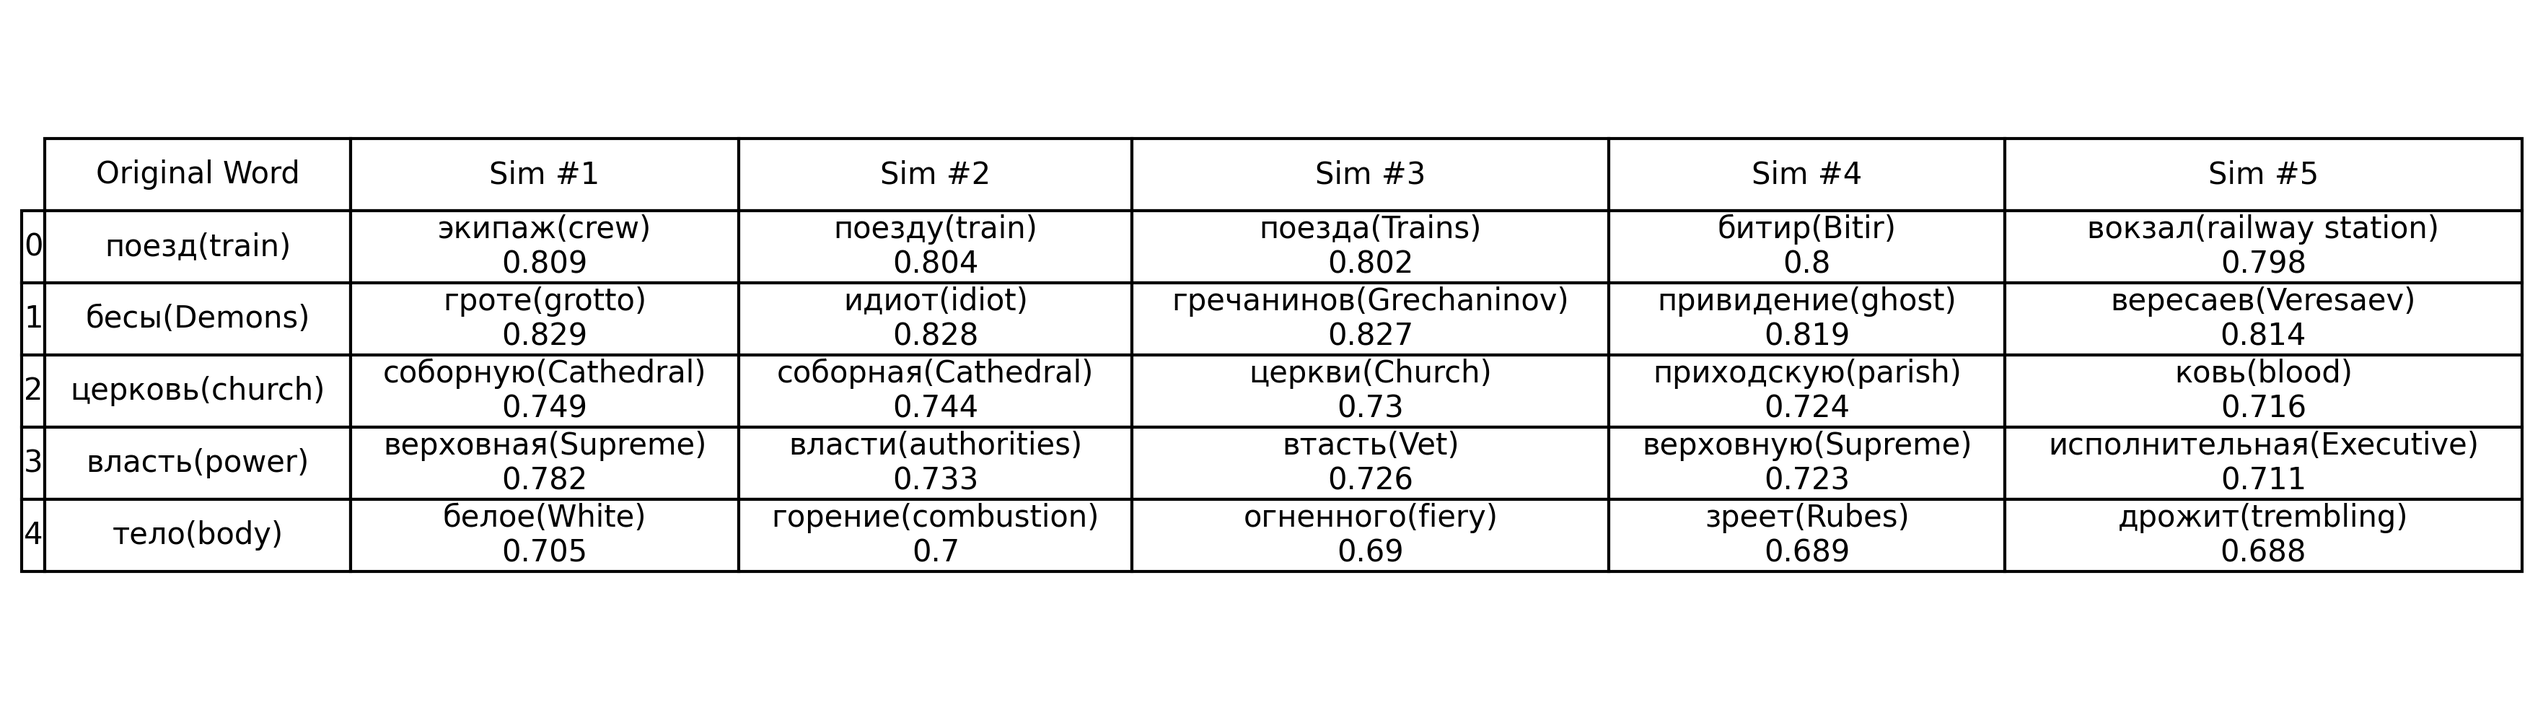
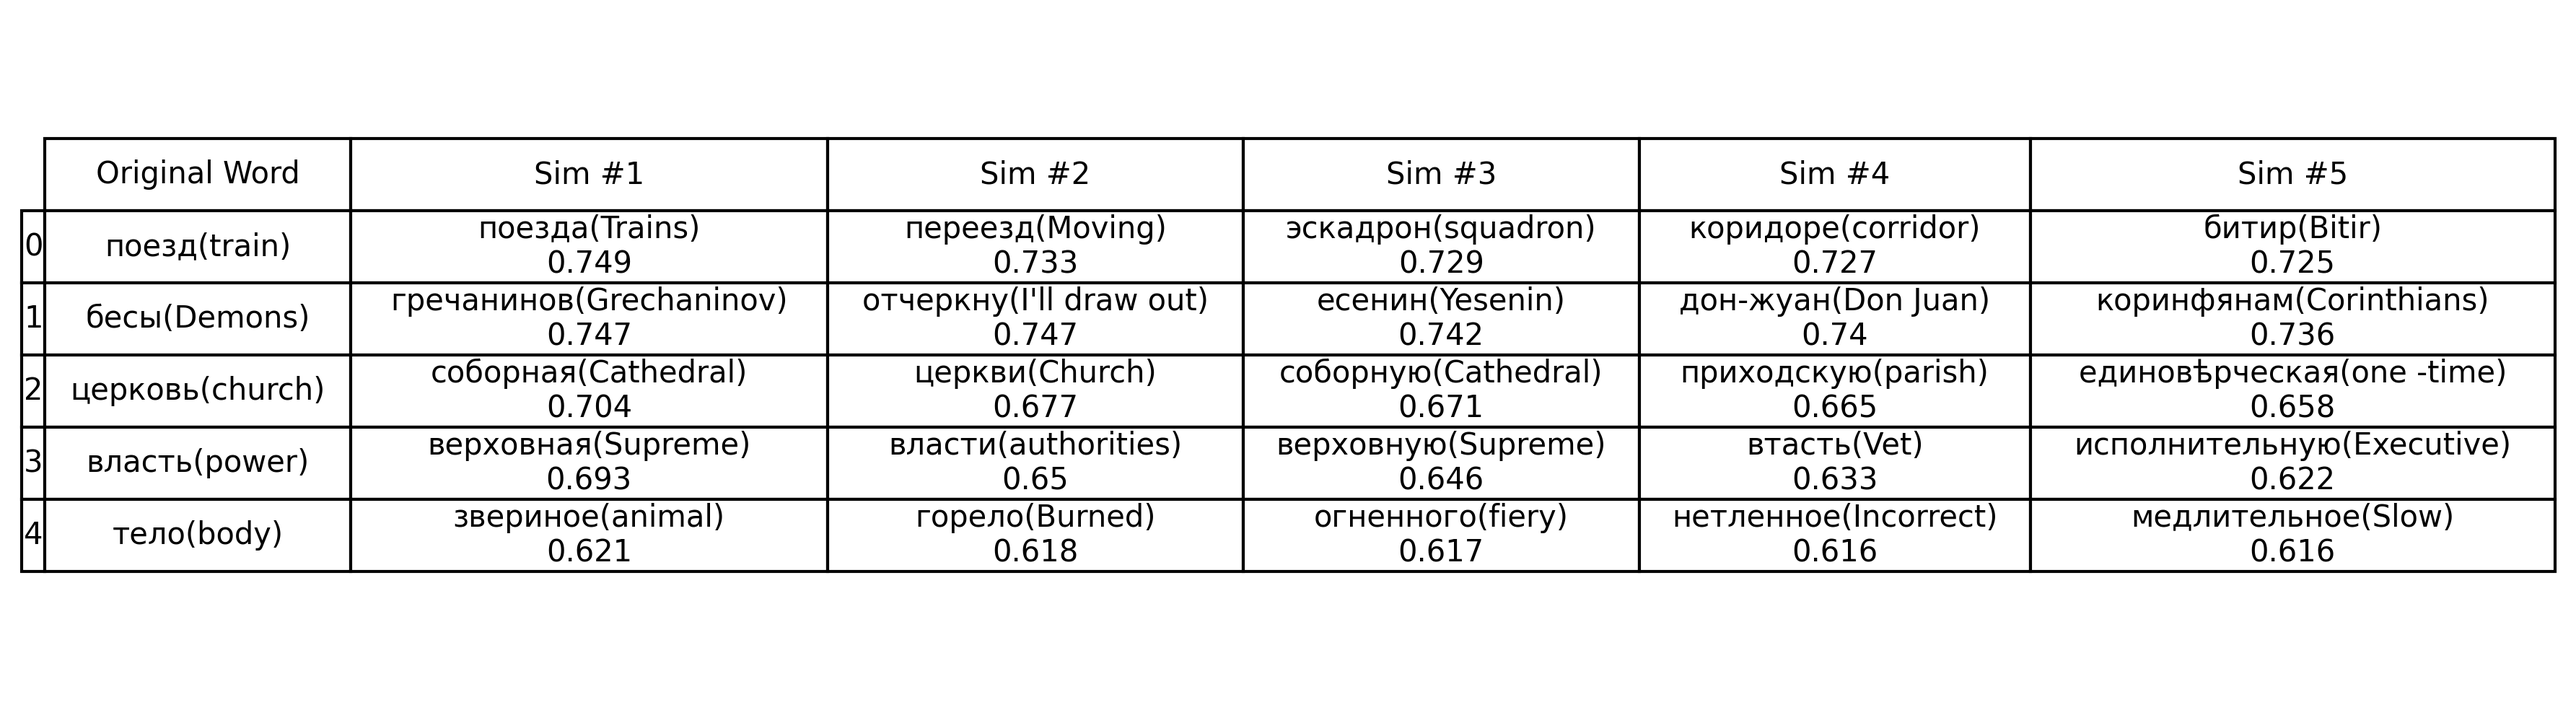
added embedding training

diff --git a/scripts/08_14_modified_create_embeddings_pipeline/check_vocab_counter.py b/scripts/08_14_modified_create_embeddings_pipeline/check_vocab_counter.py
@@ -1,0 +1,148 @@
+import gzip, json, argparse, re, csv
+from typing import Dict, List, Tuple, Any
+from collections import Counter
+from tqdm import tqdm
+import pandas as pd
+from jsonl_file_utils import write_jsonl_file
+
+
+def dump_counter_data(file_name: str, counter: Counter) -> None:
+    with open(file_name, "w") as f:
+        fieldnames = ["vocab", "frequency"]
+        writer = csv.DictWriter(f, fieldnames=fieldnames)
+
+        writer.writeheader()
+        for vocab_instance in tqdm(counter.items()):
+            writer.writerow(
+                {"vocab": vocab_instance[0], "frequency": vocab_instance[1]}
+            )
+
+
+if __name__ == "__main__":
+
+    parser = argparse.ArgumentParser(
+        formatter_class=argparse.ArgumentDefaultsHelpFormatter
+    )
+    parser.add_argument("--input", type=str, default=None)
+    parser.add_argument("--input_vocab", type=str, default=None)
+    parser.add_argument("--output", type=str, default=None)
+    parser.add_argument("--vocabfreq_cap", type=int, default=10)
+    parser.add_argument("--num_docs", type=int, default=0)
+    parser.add_argument("--random_seed", type=int, default=42)
+    parser.add_argument("--skip_vocabcounter", action="store_true")
+
+    args = parser.parse_args()
+
+    assert args.input and args.input_vocab and args.output
+    assert args.vocabfreq_cap > 0 and args.num_docs > 0
+    assert args.skip_vocabcounter
+
+    # \u0000-\u0020 --> all kinds of random space / tap/ etc.
+    # \u0021 --> exclamation mark
+    # \u0022 --> double quotation mark
+    # \u0027 --> single quotation mark
+    # \u0028-\u0029 --> small brackets
+    # \u005B, \u005D --> mid brackets
+    # \u007B-\u007D --> big brackets
+    # \u002C --> comma
+    # \u002E --> period
+    # \u003A -->
+    # \u003B --> semicolon
+    # \u003F --> question mark
+
+    non_punctuation_units = re.compile(
+        r"[^\u0000-\u0020\u0021\u0022\u0027-\u0029\u005B\u005D\u007B\u007D\u002C\u002E\u003A\u003B\u003F]+"
+    )
+
+    if args.skip_vocabcounter is False:
+
+        vocab_counter: Counter = Counter()
+
+        with gzip.open(args.input, "rt") as ifd:
+            idx_counter: int = 0
+            terminating_flag: bool = False
+
+            for entry in tqdm(ifd):
+                j = json.loads(entry)
+                local_vocabs: List[str] = non_punctuation_units.findall(j["content"])
+                local_vocabs = [local_vocab.lower() for local_vocab in local_vocabs]
+                vocab_counter += Counter(local_vocabs)
+
+                idx_counter += 1
+
+                if idx_counter >= args.num_docs:
+                    terminating_flag = True
+                    print(f" --- iterated to idx {idx_counter} --- ")
+                    break
+
+                if idx_counter % 5000 == 0:
+                    less_used_vocabs = [
+                        vocab_entry
+                        for vocab_entry in vocab_counter.items()
+                        if vocab_entry[1] <= args.vocabfreq_cap
+                    ]
+
+                    print(
+                        f"at idx {idx_counter}, there are a total of {len(vocab_counter)} vocabs, among those {len(less_used_vocabs)} has less than {args.vocabfreq_cap} frequency"
+                    )
+
+                    dump_counter_data(f"output_at_idx_{idx_counter}.csv", vocab_counter)
+
+            if terminating_flag is False:
+                print(f" --- iterated to idx {idx_counter} --- ")
+
+        # do some statistics of vocab_counter
+        less_used_vocabs = [
+            vocab_entry
+            for vocab_entry in vocab_counter.items()
+            if vocab_entry[1] <= args.vocabfreq_cap
+        ]
+
+        print(
+            f"there are a total of {len(vocab_counter)} vocabs, among those {len(less_used_vocabs)} has less than {args.vocabfreq_cap} frequency"
+        )
+        # print(f"the less frequent terms are {less_used_vocabs}")
+
+        print(f" --- writing to output file {args.output} --- ")
+        dump_counter_data(args.output, vocab_counter)
+
+    vocab_freq_df = pd.read_csv(args.input_vocab)
+    # print(vocab_freq_df.head())
+    less_than_cap_vocabs = vocab_freq_df[
+        vocab_freq_df["frequency"] <= args.vocabfreq_cap
+    ]["vocab"].unique()
+    more_than_cap_vocabs = set(
+        vocab_freq_df[vocab_freq_df["frequency"] > args.vocabfreq_cap]["vocab"].unique()
+    )
+    # print(
+    #     f"there are initially {len(vocab_freq_df)} instances of vocab, of which {len(less_than_cap_vocabs)} are with less than {args.vocabfreq_cap} times used"
+    # )
+    # print(f"some of the vocabs include : {less_than_cap_vocabs[:15]}")
+
+    with gzip.open(args.input, "rt") as ifd:
+
+        idx_counter: int = 0
+        terminating_flag: bool = False
+
+        for entry in tqdm(ifd):
+            j = json.loads(entry)
+            local_vocabs: List[str] = non_punctuation_units.findall(j["content"])
+            local_vocabs_filtered = [
+                local_vocab.lower()
+                for local_vocab in local_vocabs
+                if local_vocab.lower() in more_than_cap_vocabs
+            ]
+
+            j["content"] = " ".join(local_vocabs_filtered)
+
+            write_jsonl_file(args.output, j)
+
+            idx_counter += 1
+
+            if idx_counter >= args.num_docs:
+                terminating_flag = True
+                print(f" --- iterated to idx {idx_counter} --- ")
+                break
+
+        if terminating_flag is False:
+            print(f" --- iterated to idx {idx_counter} --- ")

diff --git a/scripts/08_14_modified_create_embeddings_pipeline/train_embeddings_and_generate_stats.py b/scripts/08_14_modified_create_embeddings_pipeline/train_embeddings_and_generate_stats.py
@@ -1,11 +1,10 @@
-import logging, gzip, math, json, argparse, random, re
-from typing import Dict, List, Set, Optional, Tuple, Any, Generator
+import gzip, json, argparse, re
+from typing import Dict, List, Tuple, Any
 
 from gensim.models import Word2Vec
 from gensim.models.callbacks import CallbackAny2Vec
 from googletrans import Translator
 from tqdm import tqdm
-import random
 
 import matplotlib.pyplot as plt
 import pandas as pd
@@ -83,6 +82,7 @@ if __name__ == "__main__":
     parser.add_argument("--num_docs", type=int, default=0)
     parser.add_argument("--embedding_size", type=int, default=300)
     parser.add_argument("--random_seed", type=int, default=42)
+    parser.add_argument("--skip_model", action="store_true", default=False)
     parser.add_argument(
         "--window_size", type=int, default=5, help="Skip-gram window size"
     )
@@ -93,6 +93,7 @@ if __name__ == "__main__":
     assert args.model_output
     assert args.stats_output
     assert args.num_docs != 0
+    assert args.skip_model is False
 
     # \u0000-\u0020 --> all kinds of random space / tap/ etc.
     # \u0021 --> exclamation mark
@@ -107,53 +108,68 @@ if __name__ == "__main__":
     # \u003B --> semicolon
     # \u003F --> question mark
 
-    # step 1: saving and training model
-    print(f"step 1: saving and training model")
+    if args.skip_model is False:
 
-    non_punctuation_units = re.compile(
-        r"[^\u0000-\u0020\u0021\u0022\u0027-\u0029\u005B\u005D\u007B\u007D\u002C\u002E\u003A\u003B\u003F]+"
-    )
+        # step 1: saving and training model
+        print(f"step 1: saving and training model")
 
-    sentences = []
+        sentences = []
 
-    with gzip.open(args.input, "rt") as ifd:
-        idx_counter: int = 0
+        with gzip.open(args.input, "rt") as ifd:
+            idx_counter: int = 0
+            terminating_flag: bool = False
 
-        for entry in ifd:
-            j = json.loads(entry)
-            local_sentences: List[str] = non_punctuation_units.findall(j["content"])
-            local_sentences = [
-                local_sentence.lower() for local_sentence in local_sentences
-            ]
-            sentences.append(local_sentences)
-            idx_counter += 1
+            for entry in tqdm(ifd):
+                j = json.loads(entry)
+                sentences.append(j["content"].split())
+                idx_counter += 1
 
-            if args.num_docs <= idx_counter:
+                if args.num_docs <= idx_counter:
+                    print(f"--- iterating to idx {idx_counter} ---")
+                    terminating_flag = True
+                    break
+
+            if terminating_flag is False:
                 print(f"--- iterating to idx {idx_counter} ---")
-                break
 
-    model = Word2Vec(
-        sentences=sentences,
-        vector_size=args.embedding_size,
-        window=args.window_size,
-        min_count=1,
-        workers=4,
-        sg=1,
-        epochs=args.epochs,
-        seed=args.random_seed,
-        callbacks=[TrainingCallback()],
-    )
+        model = Word2Vec(
+            sentences=sentences,
+            vector_size=args.embedding_size,
+            window=args.window_size,
+            min_count=1,
+            workers=4,
+            sg=1,
+            epochs=args.epochs,
+            seed=args.random_seed,
+            callbacks=[TrainingCallback()],
+        )
 
-    print(f"--- complete training. Saving model to {args.model_output} ---")
-    model.save(args.model_output)
+        print(f"--- complete training. Saving model to {args.model_output} ---")
+        model.save(args.model_output)
 
     # step 2: use model for embedding variance check
     print(f"step 2: use model for embedding variance check")
+
+    if args.skip_model is True:
+        print(f"---- loading model from {args.model_output} ----")
+        model = Word2Vec.load(args.model_output)
+        print(f"---- successfully loaded model ----")
+
     words_of_interest: List[str] = [
+        # 1. some interesting imageries that might be used
+        "мост",  # bridge
+        "бронза",  # bronze
         "поезд",  # train
+        "бричка",  # The brichka is a type of light, four-wheeled carriage
+        # commonly used in Russia during the 19th century.
+        # In Dead Souls, the protagonist Chichikov travels
+        # around in a brichka as he goes about his dubious
+        # business of acquiring "dead souls" (deceased serfs).
+        # 2. some terminologies of particular significance to 19th century
+        # novelists
+        "Нигилизм",  # nihilism
         "Бесы",  # Demons
-        "церковь",  # church
-        "красный"  # red
+        "красный",  # red
         "Земля",  # Land
         "Власть",  # power
         "Тело",  # body

diff --git a/custom.py b/custom.py
@@ -3,3 +3,5 @@ USE_PREASSEMBLED_DATA = True
 
 # booleans on filtered document data
 EXISTING_DOC_DIR = True
+
+# DEBUG_EMBEDDING_VOCAB = True
